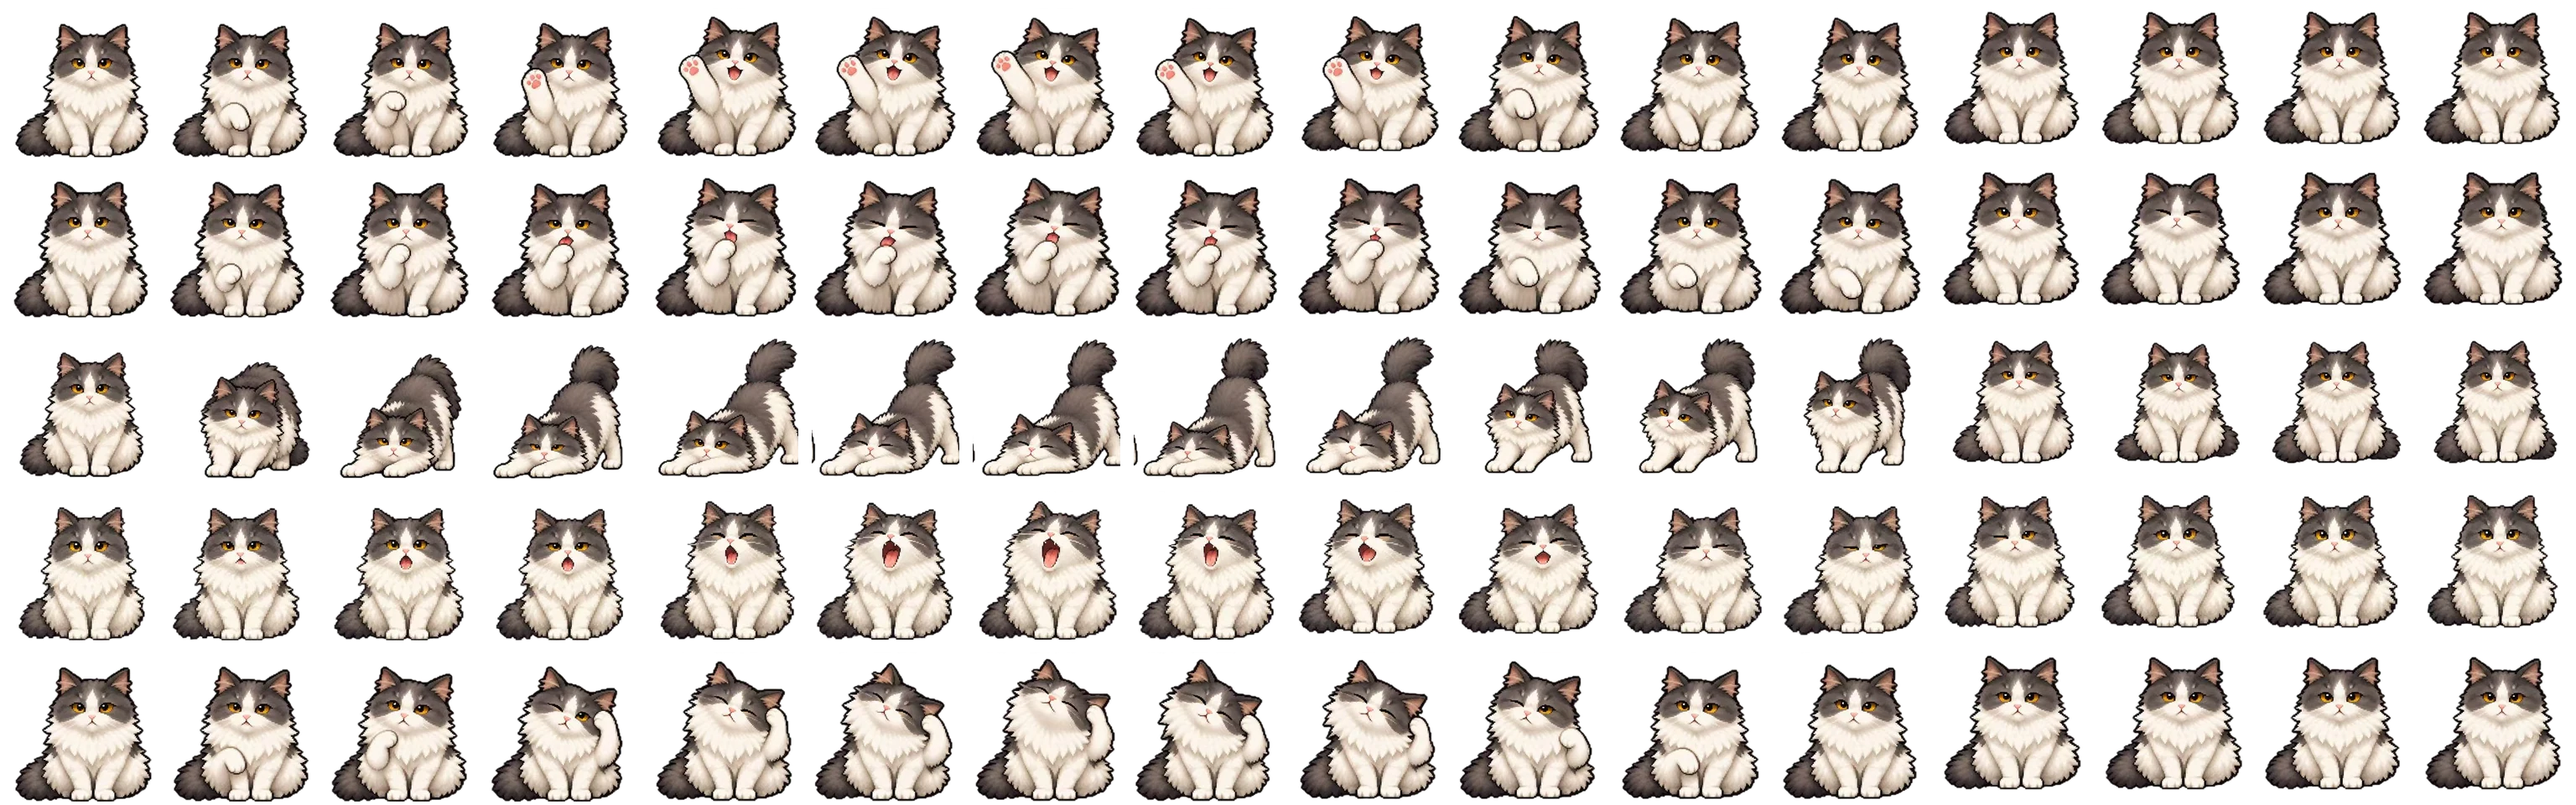
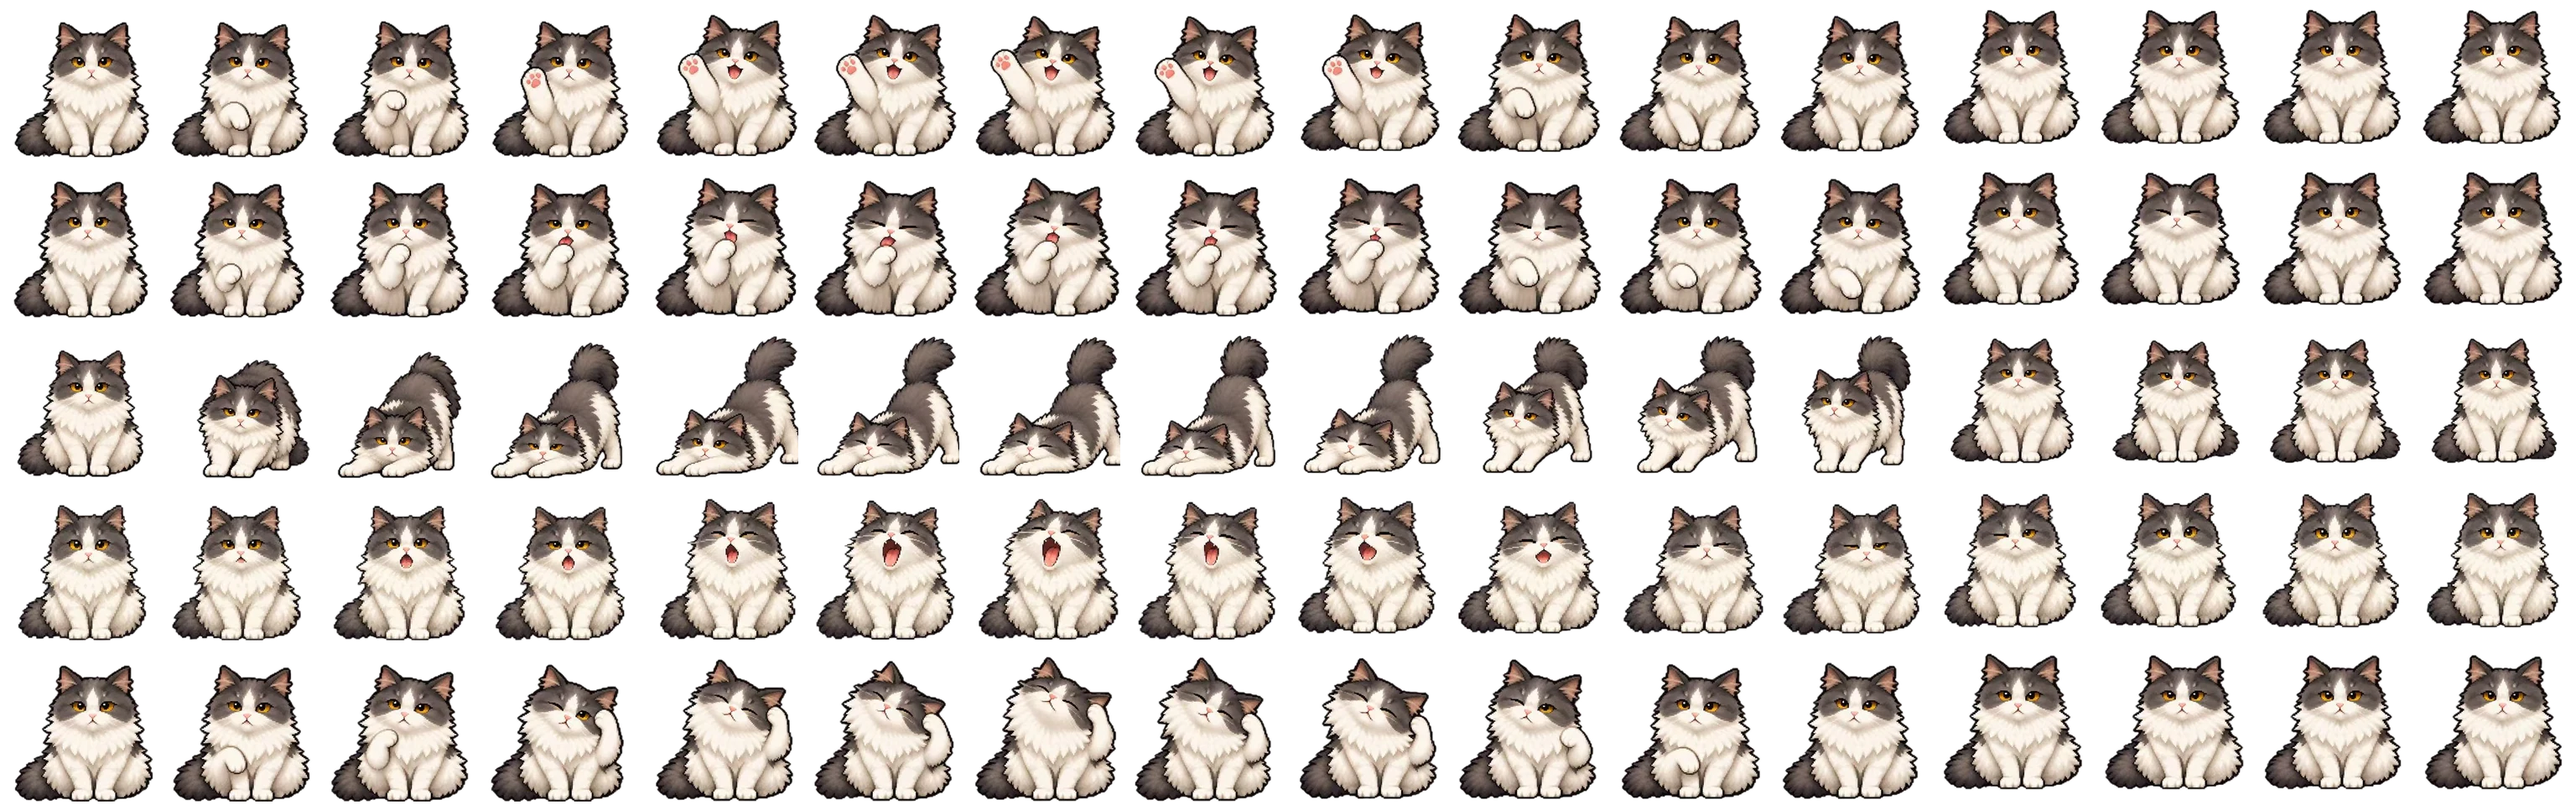
Updated the default actions

diff --git a/src/renderer/lite-app.ts b/src/renderer/lite-app.ts
@@ -348,7 +348,9 @@ const ACTION_FRAMES = 16;
     const state = dragging ? 'walk' : currentState(now);
     const action = activeAction && now < activeAction.started + activeAction.duration ? activeAction : null;
     const sizeScale = Math.max(0.65, Math.min(1.6, Number(config?.petScale) || 1));
-    const bob = action ? 0 : state === 'idle' ? Math.sin(now / 430) * 1.4 : state === 'walk' ? Math.sin(now / 100) * 2.5 : state === 'click' ? -Math.abs(Math.sin(now / 90)) * 3 : 0;
+    // The resting state is deliberately motionless: the pet only animates while it
+    // walks (auto-walk or dragging), clicks or sleeps.
+    const bob = action ? 0 : state === 'walk' ? Math.sin(now / 100) * 2.5 : state === 'click' ? -Math.abs(Math.sin(now / 90)) * 3 : 0;
     // An unknown skin (an install from before the line-up was trimmed) rides the
     // Bulu art rather than leaving the window blank.
     const target = config?.skin === 'custom' && custom ? 'custom' : config?.skin && sheets[config.skin] ? config.skin : 'bulu';
